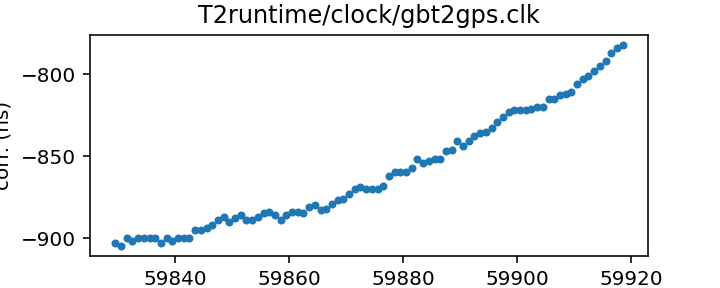
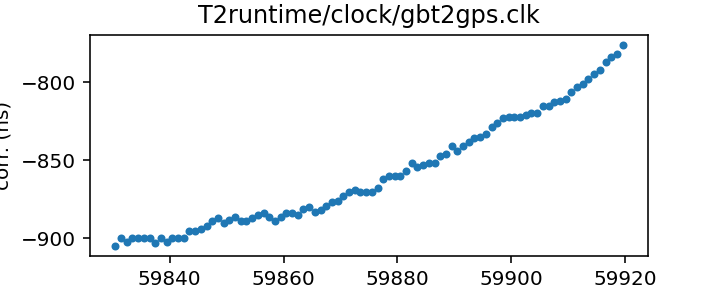
Routine gh-pages update from Github action Wed Dec  7 20:30:05 UTC 2022

diff --git a/status.md b/status.md
@@ -13,17 +13,17 @@ name of each clock file links to a page with more details.
 
 | Name | File | Corrections start | Corrections end | Last check date | Last check result 
 |:--- |:--- | --- | --- | --- |:--- 
-| [GPS to UTC](T2runtime/clock/gps2utc.clk.html) | `T2runtime/clock/gps2utc.clk` | 1993-01-01 MJD 48988.0 | 2022-10-27 MJD 59879.0 | 2022-12-06 | Unchanged 
-| [GPS to UTC (Combined Clock)](T2runtime/clock/gps2utc_cc.clk.html) | `T2runtime/clock/gps2utc_cc.clk` | 1993-01-01 MJD 48988.0 | 2022-10-27 MJD 59879.0 | 2022-12-06 | Unchanged 
-| [GPS to UTC (Corrected)](T2runtime/clock/gps2utc_c0p.clk.html) | `T2runtime/clock/gps2utc_c0p.clk` | 2010-12-29 MJD 55559.0 | 2022-10-27 MJD 59879.0 | 2022-12-06 | Unchanged 
-| [GBT](tempo/clock/time_gbt.dat.html) | `tempo/clock/time_gbt.dat` | 2000-12-31 MJD 51909.5 | 2022-12-05 MJD 59918.5 | 2022-12-06 | Updated 
-| [GBT (TEMPO2 converted from TEMPO)](T2runtime/clock/gbt2gps.clk.html) | `T2runtime/clock/gbt2gps.clk` | 2000-12-31 MJD 51909.5 | 2022-12-05 MJD 59918.5 | 2022-12-06 | Updated 
-| [Jodrell Bank](T2runtime/clock/jb2gps.clk.html) | `T2runtime/clock/jb2gps.clk` | 2006-10-13 MJD 54021.4 | 2021-11-03 MJD 59521.0 | 2022-11-30 | Unchanged 
-| [Jodrell Bank Roach](T2runtime/clock/jbroach2jb.clk.html) | `T2runtime/clock/jbroach2jb.clk` | 2006-10-13 MJD 54021.4 | 2018-03-20 MJD 58197.6 | 2022-11-30 | Unchanged 
-| [Jodrell Bank DFB](T2runtime/clock/jbdfb2jb.clk.html) | `T2runtime/clock/jbdfb2jb.clk` | 2006-10-13 MJD 54021.4 | 2017-05-11 MJD 57884.0 | 2022-11-30 | Unchanged 
+| [GPS to UTC](T2runtime/clock/gps2utc.clk.html) | `T2runtime/clock/gps2utc.clk` | 1993-01-01 MJD 48988.0 | 2022-10-27 MJD 59879.0 | 2022-12-07 | Unchanged 
+| [GPS to UTC (Combined Clock)](T2runtime/clock/gps2utc_cc.clk.html) | `T2runtime/clock/gps2utc_cc.clk` | 1993-01-01 MJD 48988.0 | 2022-10-27 MJD 59879.0 | 2022-12-07 | Unchanged 
+| [GPS to UTC (Corrected)](T2runtime/clock/gps2utc_c0p.clk.html) | `T2runtime/clock/gps2utc_c0p.clk` | 2010-12-29 MJD 55559.0 | 2022-10-27 MJD 59879.0 | 2022-12-07 | Unchanged 
+| [GBT](tempo/clock/time_gbt.dat.html) | `tempo/clock/time_gbt.dat` | 2000-12-31 MJD 51909.5 | 2022-12-06 MJD 59919.5 | 2022-12-07 | Updated 
+| [GBT (TEMPO2 converted from TEMPO)](T2runtime/clock/gbt2gps.clk.html) | `T2runtime/clock/gbt2gps.clk` | 2000-12-31 MJD 51909.5 | 2022-12-06 MJD 59919.5 | 2022-12-07 | Updated 
+| [Jodrell Bank](T2runtime/clock/jb2gps.clk.html) | `T2runtime/clock/jb2gps.clk` | 2006-10-13 MJD 54021.4 | 2021-11-03 MJD 59521.0 | 2022-12-07 | Unchanged 
+| [Jodrell Bank Roach](T2runtime/clock/jbroach2jb.clk.html) | `T2runtime/clock/jbroach2jb.clk` | 2006-10-13 MJD 54021.4 | 2018-03-20 MJD 58197.6 | 2022-12-07 | Unchanged 
+| [Jodrell Bank DFB](T2runtime/clock/jbdfb2jb.clk.html) | `T2runtime/clock/jbdfb2jb.clk` | 2006-10-13 MJD 54021.4 | 2017-05-11 MJD 57884.0 | 2022-12-07 | Unchanged 
 | [Meerkat (observatory)](T2runtime/clock/mk2utc_observatory.clk.html) | `T2runtime/clock/mk2utc_observatory.clk` | 2019-01-01 MJD 58484.0 | 2022-11-07 MJD 59891.0 | 2022-12-05 | Unchanged 
-| [Leap seconds](tempo/clock/leap.sec.html) | `tempo/clock/leap.sec` | 1972-07-01 MJD 41499.0 | 2017-01-01 MJD 57754.0 | 2022-12-06 | Unchanged 
-| [UT1 table](tempo/clock/ut1.dat.html) | `tempo/clock/ut1.dat` | 1973-01-02 MJD 41684.0 | 2023-12-09 MJD 60287.0 | 2022-12-06 | Unchanged 
+| [Leap seconds](tempo/clock/leap.sec.html) | `tempo/clock/leap.sec` | 1972-07-01 MJD 41499.0 | 2017-01-01 MJD 57754.0 | 2022-12-07 | Unchanged 
+| [UT1 table](tempo/clock/ut1.dat.html) | `tempo/clock/ut1.dat` | 1973-01-02 MJD 41684.0 | 2023-12-09 MJD 60287.0 | 2022-12-07 | Unchanged 
 
 
 
@@ -67,21 +67,21 @@ name of each clock file links to a page with more details.
 | [GBT (TEMPO2)](T2runtime/clock/gbt2gps_tempo2.clk.html) | `T2runtime/clock/gbt2gps_tempo2.clk` | 2000-12-31 MJD 51909.5 | 2020-02-25 MJD 58904.5 | 2022-12-05 | Unchanged 
 | [Jodrell Bank (TEMPO)](tempo/clock/time_jb.dat.html) | `tempo/clock/time_jb.dat` | 2006-10-13 MJD 54021.4 | 2019-05-13 MJD 58616.2 | 2022-12-01 | Unchanged 
 | [VLA](tempo/clock/time_vla.dat.html) | `tempo/clock/time_vla.dat` | 1990-10-27 MJD 48191.2 | 2021-03-07 MJD 59280.5 | 2022-12-01 | **Failed to download** 
-| [VLA (TEMPO2)](T2runtime/clock/vla2gps.clk.html) | `T2runtime/clock/vla2gps.clk` | 2015-02-01 MJD 57054.6 | 2021-03-07 MJD 59280.5 | 2022-11-30 | Unchanged 
-| [VLA to NIST](T2runtime/clock/vla2nist.clk.html) | `T2runtime/clock/vla2nist.clk` | 1990-10-27 MJD 48191.2 | 1993-11-13 MJD 49304.0 | 2022-11-30 | Unchanged 
+| [VLA (TEMPO2)](T2runtime/clock/vla2gps.clk.html) | `T2runtime/clock/vla2gps.clk` | 2015-02-01 MJD 57054.6 | 2021-03-07 MJD 59280.5 | 2022-12-07 | Unchanged 
+| [VLA to NIST](T2runtime/clock/vla2nist.clk.html) | `T2runtime/clock/vla2nist.clk` | 1990-10-27 MJD 48191.2 | 1993-11-13 MJD 49304.0 | 2022-12-07 | Unchanged 
 | [FAST](tempo/clock/time_fast.dat.html) | `tempo/clock/time_fast.dat` | 2017-07-26 MJD 57960.4 | 2019-09-18 MJD 58744.0 | 2022-12-01 | **Failed to download** 
 | [WSRT](T2runtime/clock/wsrt2gps.clk.html) | `T2runtime/clock/wsrt2gps.clk` | 1999-01-01 MJD 51179.5 | 2015-06-29 MJD 57202.1 | 2022-12-01 | Unchanged 
 | [WSRT (TEMPO)](tempo/clock/time_wsrt.dat.html) | `tempo/clock/time_wsrt.dat` | 1987-07-24 MJD 47000.0 | 2007-12-24 MJD 54458.0 | 2022-12-01 | **Validation failed** 
-| [Parkes](T2runtime/clock/pks2gps.clk.html) | `T2runtime/clock/pks2gps.clk` | 1858-11-17 MJD 0.0 | 2019-07-31 MJD 58695.4 | 2022-11-30 | Unchanged 
+| [Parkes](T2runtime/clock/pks2gps.clk.html) | `T2runtime/clock/pks2gps.clk` | 1858-11-17 MJD 0.0 | 2019-07-31 MJD 58695.4 | 2022-12-07 | Unchanged 
 | [Parkes (TEMPO)](tempo/clock/time_pks.dat.html) | `tempo/clock/time_pks.dat` | 1979-05-07 MJD 44000.0 | 2011-07-03 MJD 55745.8 | 2022-12-01 | **Validation failed** 
-| [SRT](T2runtime/clock/srt2gps.clk.html) | `T2runtime/clock/srt2gps.clk` | 2013-03-20 MJD 56371.0 | 2019-12-11 MJD 58828.0 | 2022-11-30 | Unchanged 
-| [Effelsberg](T2runtime/clock/eff2gps.clk.html) | `T2runtime/clock/eff2gps.clk` | 1993-11-29 MJD 49320.0 | 2015-06-22 MJD 57195.5 | 2022-11-30 | Unchanged 
-| [Effelsberg Asterix/PSRix](T2runtime/clock/effix2gps.clk.html) | `T2runtime/clock/effix2gps.clk` | 2011-01-01 MJD 55562.5 | 2021-03-21 MJD 59294.5 | 2022-11-30 | Unchanged 
+| [SRT](T2runtime/clock/srt2gps.clk.html) | `T2runtime/clock/srt2gps.clk` | 2013-03-20 MJD 56371.0 | 2019-12-11 MJD 58828.0 | 2022-12-07 | Unchanged 
+| [Effelsberg](T2runtime/clock/eff2gps.clk.html) | `T2runtime/clock/eff2gps.clk` | 1993-11-29 MJD 49320.0 | 2015-06-22 MJD 57195.5 | 2022-12-07 | Unchanged 
+| [Effelsberg Asterix/PSRix](T2runtime/clock/effix2gps.clk.html) | `T2runtime/clock/effix2gps.clk` | 2011-01-01 MJD 55562.5 | 2021-03-21 MJD 59294.5 | 2022-12-07 | Unchanged 
 | [NUPPI](tempo/clock/time_nuppi.dat.html) | `tempo/clock/time_nuppi.dat` | 2005-03-07 MJD 53436.0 | 2015-11-08 MJD 57334.6 | 2022-12-01 | Unchanged 
-| [Meerkat (TEMPO2)](T2runtime/clock/mk2utc.clk.html) | `T2runtime/clock/mk2utc.clk` | 2019-01-01 MJD 58484.0 | 2021-02-22 MJD 59268.0 | 2022-11-30 | Unchanged 
-| [MOST](T2runtime/clock/mo2gps.clk.html) | `T2runtime/clock/mo2gps.clk` | 2003-12-27 MJD 53000.0 | 2018-09-06 MJD 58367.0 | 2022-11-30 | Unchanged 
-| [Nancay to obspm](T2runtime/clock/ncyobs2obspm.clk.html) | `T2runtime/clock/ncyobs2obspm.clk` | 1988-05-18 MJD 47299.6 | 2021-11-01 MJD 59519.6 | 2022-11-30 | Unchanged 
-| [obspm](T2runtime/clock/obspm2gps.clk.html) | `T2runtime/clock/obspm2gps.clk` | 2003-12-01 MJD 52974.0 | 2021-08-28 MJD 59454.0 | 2022-11-30 | Unchanged 
+| [Meerkat (TEMPO2)](T2runtime/clock/mk2utc.clk.html) | `T2runtime/clock/mk2utc.clk` | 2019-01-01 MJD 58484.0 | 2021-02-22 MJD 59268.0 | 2022-12-07 | Unchanged 
+| [MOST](T2runtime/clock/mo2gps.clk.html) | `T2runtime/clock/mo2gps.clk` | 2003-12-27 MJD 53000.0 | 2018-09-06 MJD 58367.0 | 2022-12-07 | Unchanged 
+| [Nancay to obspm](T2runtime/clock/ncyobs2obspm.clk.html) | `T2runtime/clock/ncyobs2obspm.clk` | 1988-05-18 MJD 47299.6 | 2021-11-01 MJD 59519.6 | 2022-12-07 | Unchanged 
+| [obspm](T2runtime/clock/obspm2gps.clk.html) | `T2runtime/clock/obspm2gps.clk` | 2003-12-01 MJD 52974.0 | 2021-08-28 MJD 59454.0 | 2022-12-07 | Unchanged 
 
 
 ### Further information:

diff --git a/T2runtime/clock/gbt2gps.clk.md b/T2runtime/clock/gbt2gps.clk.md
@@ -23,14 +23,13 @@ If questions arise about the conversion, contact Anne Archibald
 | Format | tempo2 |
 | Bogus last correction | False |
 | Clock file start | 2000-12-31 MJD 51909.5 |
-| Clock file end | 2022-12-05 MJD 59918.5 |
+| Clock file end | 2022-12-06 MJD 59919.5 |
 | Update interval (days) | 1 |
-| Last update attempt | 2022-12-06 |
+| Last update attempt | 2022-12-07 |
 | Last update result | Updated |
 
 Log entries from the last few update attempts:
 ```
-2022-11-27 20:30:04.533 - Updated
 2022-11-28 20:30:15.754 - Updated
 2022-11-29 20:29:57.356 - Updated
 2022-11-30 20:31:22.495 - Updated
@@ -40,12 +39,13 @@ Log entries from the last few update attempts:
 2022-12-04 20:28:36.701 - Updated
 2022-12-05 20:29:48.516 - Updated
 2022-12-06 20:28:48.070 - Updated
+2022-12-07 20:29:39.411 - Updated
 ```
 [Full log](https://raw.githubusercontent.com/ipta/pulsar-clock-corrections/main/log/T2runtime/clock/gbt2gps.clk.log)
 
 Leading comments from clock file:
 
-    # This file was automatically converted from tempo/clock/time_gbt.dat on 2022-12-06 20:28:47.980
+    # This file was automatically converted from tempo/clock/time_gbt.dat on 2022-12-07 20:29:39.341
 
 
 

diff --git a/tempo/clock/time_gbt.dat.md b/tempo/clock/time_gbt.dat.md
@@ -18,14 +18,13 @@ If questions arise, contact Ryan S. Lynch <rlynch@nrao.edu>.
 | Format | tempo |
 | Bogus last correction | False |
 | Clock file start | 2000-12-31 MJD 51909.5 |
-| Clock file end | 2022-12-05 MJD 59918.5 |
+| Clock file end | 2022-12-06 MJD 59919.5 |
 | Update interval (days) | 1 |
-| Last update attempt | 2022-12-06 |
+| Last update attempt | 2022-12-07 |
 | Last update result | Updated |
 
 Log entries from the last few update attempts:
 ```
-2022-11-27 20:30:04.461 - Updated
 2022-11-28 20:30:15.489 - Updated
 2022-11-29 20:29:57.285 - Updated
 2022-11-30 20:31:22.425 - Updated
@@ -35,6 +34,7 @@ Log entries from the last few update attempts:
 2022-12-04 20:28:36.630 - Updated
 2022-12-05 20:29:47.933 - Updated
 2022-12-06 20:28:47.977 - Updated
+2022-12-07 20:29:39.339 - Updated
 ```
 [Full log](https://raw.githubusercontent.com/ipta/pulsar-clock-corrections/main/log/tempo/clock/time_gbt.dat.log)
 

diff --git a/T2runtime/clock/vla2nist.clk.md b/T2runtime/clock/vla2nist.clk.md
@@ -16,12 +16,11 @@ This file is pulled from the TEMPO2 repository and may not be fully up-to-date.
 | Clock file start | 1990-10-27 MJD 48191.2 |
 | Clock file end | 1993-11-13 MJD 49304.0 |
 | Update interval (days) | 7 |
-| Last update attempt | 2022-11-30 |
+| Last update attempt | 2022-12-07 |
 | Last update result | Unchanged |
 
 Log entries from the last few update attempts:
 ```
-2022-09-28 20:41:26.759 - Unchanged
 2022-10-05 20:42:16.288 - Unchanged
 2022-10-12 20:43:16.357 - Unchanged
 2022-10-19 20:43:37.784 - Unchanged
@@ -31,6 +30,7 @@ Log entries from the last few update attempts:
 2022-11-16 20:33:01.145 - Unchanged
 2022-11-23 20:30:49.223 - Unchanged
 2022-11-30 20:31:24.608 - Unchanged
+2022-12-07 20:29:40.394 - Unchanged
 ```
 [Full log](https://raw.githubusercontent.com/ipta/pulsar-clock-corrections/main/log/T2runtime/clock/vla2nist.clk.log)
 

diff --git a/T2runtime/clock/srt2gps.clk.md b/T2runtime/clock/srt2gps.clk.md
@@ -16,12 +16,11 @@ This file is pulled from the TEMPO2 repository and may not be fully up-to-date.
 | Clock file start | 2013-03-20 MJD 56371.0 |
 | Clock file end | 2019-12-11 MJD 58828.0 |
 | Update interval (days) | 7 |
-| Last update attempt | 2022-11-30 |
+| Last update attempt | 2022-12-07 |
 | Last update result | Unchanged |
 
 Log entries from the last few update attempts:
 ```
-2022-09-28 20:41:27.740 - Unchanged
 2022-10-05 20:42:17.397 - Unchanged
 2022-10-12 20:43:17.576 - Unchanged
 2022-10-19 20:43:38.934 - Unchanged
@@ -31,6 +30,7 @@ Log entries from the last few update attempts:
 2022-11-16 20:33:02.034 - Unchanged
 2022-11-23 20:30:50.223 - Unchanged
 2022-11-30 20:31:25.450 - Unchanged
+2022-12-07 20:29:40.749 - Unchanged
 ```
 [Full log](https://raw.githubusercontent.com/ipta/pulsar-clock-corrections/main/log/T2runtime/clock/srt2gps.clk.log)
 

diff --git a/T2runtime/clock/vla2gps.clk.md b/T2runtime/clock/vla2gps.clk.md
@@ -16,12 +16,11 @@ This file is pulled from the TEMPO2 repository and may not be fully up-to-date.
 | Clock file start | 2015-02-01 MJD 57054.6 |
 | Clock file end | 2021-03-07 MJD 59280.5 |
 | Update interval (days) | 7 |
-| Last update attempt | 2022-11-30 |
+| Last update attempt | 2022-12-07 |
 | Last update result | Unchanged |
 
 Log entries from the last few update attempts:
 ```
-2022-09-28 20:41:26.425 - Unchanged
 2022-10-05 20:42:15.905 - Unchanged
 2022-10-12 20:43:15.967 - Unchanged
 2022-10-19 20:43:37.417 - Unchanged
@@ -31,6 +30,7 @@ Log entries from the last few update attempts:
 2022-11-16 20:33:00.839 - Unchanged
 2022-11-23 20:30:48.882 - Unchanged
 2022-11-30 20:31:24.316 - Unchanged
+2022-12-07 20:29:40.253 - Unchanged
 ```
 [Full log](https://raw.githubusercontent.com/ipta/pulsar-clock-corrections/main/log/T2runtime/clock/vla2gps.clk.log)
 

diff --git a/T2runtime/clock/mk2utc.clk.md b/T2runtime/clock/mk2utc.clk.md
@@ -16,12 +16,11 @@ This file is pulled from the TEMPO2 repository and may not be fully up-to-date.
 | Clock file start | 2019-01-01 MJD 58484.0 |
 | Clock file end | 2021-02-22 MJD 59268.0 |
 | Update interval (days) | 7 |
-| Last update attempt | 2022-11-30 |
+| Last update attempt | 2022-12-07 |
 | Last update result | Unchanged |
 
 Log entries from the last few update attempts:
 ```
-2022-09-28 20:41:29.302 - Unchanged
 2022-10-05 20:42:19.128 - Unchanged
 2022-10-12 20:43:19.322 - Unchanged
 2022-10-19 20:43:40.600 - Unchanged
@@ -31,6 +30,7 @@ Log entries from the last few update attempts:
 2022-11-16 20:33:03.374 - Unchanged
 2022-11-23 20:30:51.765 - Unchanged
 2022-11-30 20:31:26.684 - Unchanged
+2022-12-07 20:29:41.312 - Unchanged
 ```
 [Full log](https://raw.githubusercontent.com/ipta/pulsar-clock-corrections/main/log/T2runtime/clock/mk2utc.clk.log)
 

diff --git a/T2runtime/clock/mo2gps.clk.md b/T2runtime/clock/mo2gps.clk.md
@@ -16,12 +16,11 @@ This file is pulled from the TEMPO2 repository and may not be fully up-to-date.
 | Clock file start | 2003-12-27 MJD 53000.0 |
 | Clock file end | 2018-09-06 MJD 58367.0 |
 | Update interval (days) | 7 |
-| Last update attempt | 2022-11-30 |
+| Last update attempt | 2022-12-07 |
 | Last update result | Unchanged |
 
 Log entries from the last few update attempts:
 ```
-2022-09-28 20:41:29.571 - Unchanged
 2022-10-05 20:42:19.459 - Unchanged
 2022-10-12 20:43:19.702 - Unchanged
 2022-10-19 20:43:40.969 - Unchanged
@@ -31,6 +30,7 @@ Log entries from the last few update attempts:
 2022-11-16 20:33:03.661 - Unchanged
 2022-11-23 20:30:52.024 - Unchanged
 2022-11-30 20:31:27.017 - Unchanged
+2022-12-07 20:29:41.476 - Unchanged
 ```
 [Full log](https://raw.githubusercontent.com/ipta/pulsar-clock-corrections/main/log/T2runtime/clock/mo2gps.clk.log)
 

diff --git a/T2runtime/clock/gps2utc_c0p.clk.md b/T2runtime/clock/gps2utc_c0p.clk.md
@@ -30,12 +30,11 @@ about the BIPM's published corrections, contact <tai@bipm.org>.
 | Clock file start | 2010-12-29 MJD 55559.0 |
 | Clock file end | 2022-10-27 MJD 59879.0 |
 | Update interval (days) | 1 |
-| Last update attempt | 2022-12-06 |
+| Last update attempt | 2022-12-07 |
 | Last update result | Unchanged |
 
 Log entries from the last few update attempts:
 ```
-2022-11-27 20:30:03.734 - Unchanged
 2022-11-28 20:30:15.120 - Unchanged
 2022-11-29 20:29:56.575 - Unchanged
 2022-11-30 20:31:21.685 - Unchanged
@@ -45,6 +44,7 @@ Log entries from the last few update attempts:
 2022-12-04 20:28:36.094 - Unchanged
 2022-12-05 20:29:46.915 - Unchanged
 2022-12-06 20:28:47.598 - Unchanged
+2022-12-07 20:29:38.978 - Unchanged
 ```
 [Full log](https://raw.githubusercontent.com/ipta/pulsar-clock-corrections/main/log/T2runtime/clock/gps2utc_c0p.clk.log)
 

diff --git a/T2runtime/clock/gps2utc_cc.clk.md b/T2runtime/clock/gps2utc_cc.clk.md
@@ -29,12 +29,11 @@ about the BIPM's published corrections, contact <tai@bipm.org>.
 | Clock file start | 1993-01-01 MJD 48988.0 |
 | Clock file end | 2022-10-27 MJD 59879.0 |
 | Update interval (days) | 1 |
-| Last update attempt | 2022-12-06 |
+| Last update attempt | 2022-12-07 |
 | Last update result | Unchanged |
 
 Log entries from the last few update attempts:
 ```
-2022-11-27 20:30:03.723 - Unchanged
 2022-11-28 20:30:15.107 - Unchanged
 2022-11-29 20:29:56.564 - Unchanged
 2022-11-30 20:31:21.674 - Unchanged
@@ -44,6 +43,7 @@ Log entries from the last few update attempts:
 2022-12-04 20:28:36.083 - Unchanged
 2022-12-05 20:29:46.904 - Unchanged
 2022-12-06 20:28:47.585 - Unchanged
+2022-12-07 20:29:38.966 - Unchanged
 ```
 [Full log](https://raw.githubusercontent.com/ipta/pulsar-clock-corrections/main/log/T2runtime/clock/gps2utc_cc.clk.log)
 

diff --git a/T2runtime/clock/gps2utc.clk.md b/T2runtime/clock/gps2utc.clk.md
@@ -32,12 +32,11 @@ about the BIPM's published corrections, contact <tai@bipm.org>.
 | Clock file start | 1993-01-01 MJD 48988.0 |
 | Clock file end | 2022-10-27 MJD 59879.0 |
 | Update interval (days) | 1 |
-| Last update attempt | 2022-12-06 |
+| Last update attempt | 2022-12-07 |
 | Last update result | Unchanged |
 
 Log entries from the last few update attempts:
 ```
-2022-11-27 20:30:03.690 - Unchanged
 2022-11-28 20:30:15.069 - Unchanged
 2022-11-29 20:29:56.532 - Unchanged
 2022-11-30 20:31:21.641 - Unchanged
@@ -47,6 +46,7 @@ Log entries from the last few update attempts:
 2022-12-04 20:28:36.050 - Unchanged
 2022-12-05 20:29:46.871 - Unchanged
 2022-12-06 20:28:47.543 - Unchanged
+2022-12-07 20:29:38.932 - Unchanged
 ```
 [Full log](https://raw.githubusercontent.com/ipta/pulsar-clock-corrections/main/log/T2runtime/clock/gps2utc.clk.log)
 

diff --git a/T2runtime/clock/ncyobs2obspm.clk.md b/T2runtime/clock/ncyobs2obspm.clk.md
@@ -21,12 +21,11 @@ thus here) can be expected to be somewhat up to date.
 | Clock file start | 1988-05-18 MJD 47299.6 |
 | Clock file end | 2021-11-01 MJD 59519.6 |
 | Update interval (days) | 7 |
-| Last update attempt | 2022-11-30 |
+| Last update attempt | 2022-12-07 |
 | Last update result | Unchanged |
 
 Log entries from the last few update attempts:
 ```
-2022-09-28 20:41:30.061 - Unchanged
 2022-10-05 20:42:20.037 - Unchanged
 2022-10-12 20:43:20.320 - Unchanged
 2022-10-19 20:43:41.580 - Unchanged
@@ -36,6 +35,7 @@ Log entries from the last few update attempts:
 2022-11-16 20:33:04.125 - Unchanged
 2022-11-23 20:30:52.507 - Unchanged
 2022-11-30 20:31:27.500 - Unchanged
+2022-12-07 20:29:41.622 - Unchanged
 ```
 [Full log](https://raw.githubusercontent.com/ipta/pulsar-clock-corrections/main/log/T2runtime/clock/ncyobs2obspm.clk.log)
 
